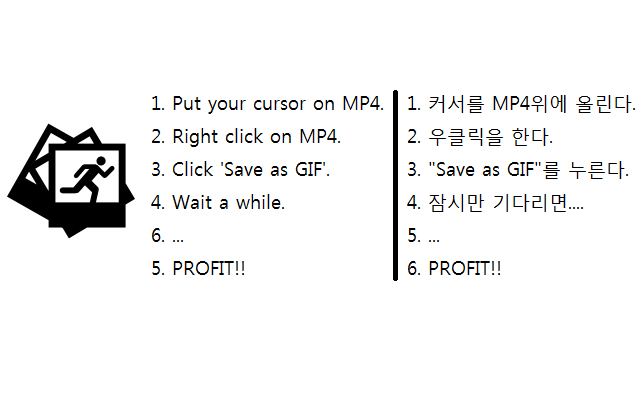
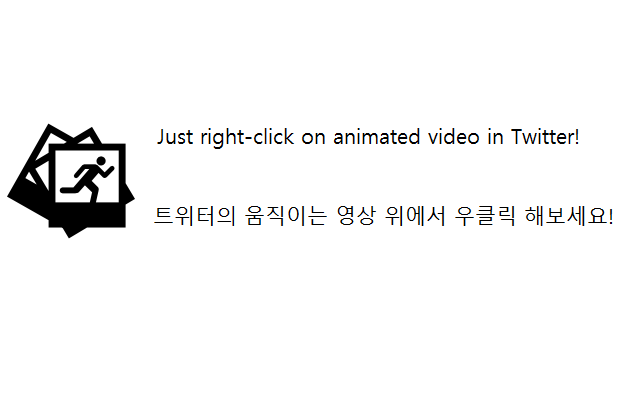
Finish.
Yes! I am Success!!!

diff --git a/src/progressPopup.js b/src/progressPopup.js
@@ -52,6 +52,18 @@ function findIframeTag(strHTML){
 	return res;	
 }
 
+function findExternalIframeContainerDiv(strHTML){
+	var res = [];
+	var parsed = strHTML.split("<");
+	for(var i in parsed){
+		if((!parsed[i].search("div"))&&(parsed[i].search("ExternalIframeContainer")>0) ){
+			return parsed[i];
+		}
+	}
+	
+	return false;
+}
+
 function findIDnumber(iframeTag){
 	var parsed = iframeTag.split(" ");
 	for(var i in parsed){
@@ -62,29 +74,11 @@ function findIDnumber(iframeTag){
 	return false;
 }
 
-function findSourceURL(iframeTag){
-	var parsed = iframeTag.split('"');
-	var stop = false;
-	for(var i in parsed){
-		if(stop){
-			console.log(parsed[i]);
-			return parsed[i];
-		}
-		if(parsed[i].search("src") > 0){
-			console.log(parsed[i]);						
-			stop = true;
-		}
+function isTargetInHTML(idTarget,strHTML){
+	if(strHTML.search(idTarget) > 0){
+		return findExternalIframeContainerDiv(strHTML)
 	}
-	return false;
-}
-
-function isTargetInIframeTags(idTarget,iframeTags){
-	for(var i in iframeTags){
-		if(iframeTags[i].search(idTarget) > 0){
-			console.log(iframeTags[i]);
-			return findSourceURL(iframeTags[i]);
-		}
-	}
+	
 	return false;
 }
 
@@ -109,46 +103,23 @@ chrome.runtime.onMessage.addListener(
 			sendResponse({farewell: "bye"});
 		}
 		else if(request.greeting == "saveVideo"){
-			console.log(request);
-			
 			var iframeTags = findIframeTag($('body').html().toString());
 			for(var i in iframeTags){
 				var nowID = findIDnumber(iframeTags[i]);
 				if(nowID){
-					var subIframeTags = findIframeTag($("#"+nowID).contents().find("body").html());
-					var res = isTargetInIframeTags(request.idVideo,subIframeTags);
+					var res = isTargetInHTML(request.idVideo,$("#"+nowID).contents().find("body").html());
 					if(res){
-						console.log(res);
-						var req = new XMLHttpRequest();
-						req.open('GET', 'src', true);
-						req.onreadystatechange = function (aEvt) {
-						  if (req.readyState == 4) {
-							 if(req.status == 200)
-							  console.log(req.responseText);
-							 else
-							  console.log("Error loading page\n");
-						  }
-						};
-						req.send(null);
+						var subDivStr= res.substring(res.search("video.twimg.com"),res.length-1).split("&")[0].split("\\");
+						var targetVideoSource = "https://";
+						for(var i in subDivStr){
+							targetVideoSource += subDivStr[i];
+						}
+						console.log(targetVideoSource);
+						sendResponse({srcVideo: targetVideoSource});
 					}
+
 				}
 			}
-			
-			
-			/*var idTry;
-			var parsed = $('body').html().toString().split("<");
-			for(var i in parsed){
-				if(!parsed[i].search("iframe")){					
-					var subParsed = parsed[i].split(" ");
-					for(var i in subParsed){
-						if(!subParsed[i].search("id")){
-							idTry = "#" + subParsed[i].split("=")[1].replace(/['"]+/g, '');
-							console.log(idTry);
-							console.log($(idTry).contents().find("body").html())
-						}
-					}
-				}
-			}*/
 		}
 });
 

diff --git a/src/main.js b/src/main.js
@@ -170,9 +170,10 @@ function genericOnClick(info) {
 		
 }
 
-function saveVideo(info){	
+function saveVideo(info){
 	var parsed = info.frameUrl.split("&");
-	var idSearch;	
+	var idSearch;
+	
 	for(var i in parsed){
 		if(!parsed[i].search("xdm_c")){
 			idSearch = parsed[i].split("=")[1];
@@ -181,8 +182,13 @@ function saveVideo(info){
 	}
 	
 	chrome.tabs.query({active: true, currentWindow: true}, function(tabs){
-		chrome.tabs.sendMessage(tabs[0].id, {greeting: "saveVideo", idVideo: idSearch});
-	});
+		chrome.tabs.sendMessage(tabs[0].id, {greeting: "saveVideo", idVideo: idSearch},function(response){
+			chrome.storage.sync.get({spcificPathName: false}, function(items){
+				console.log(items.spcificPathName);
+				chrome.downloads.download({url: response.srcVideo, saveAs: items.spcificPathName});
+			});
+		});
+	});	
 }
 
 // Create one test item for each context type.
